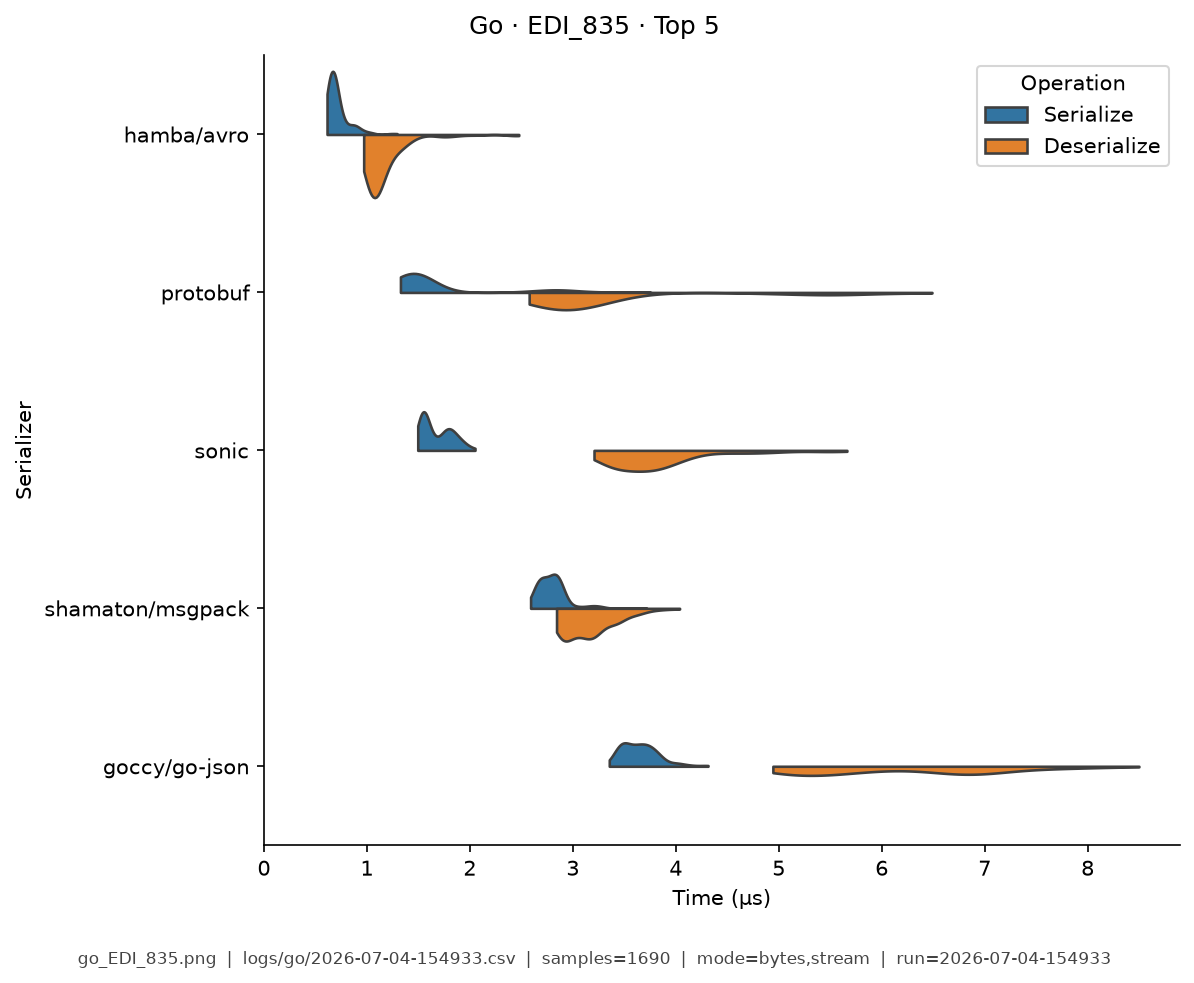
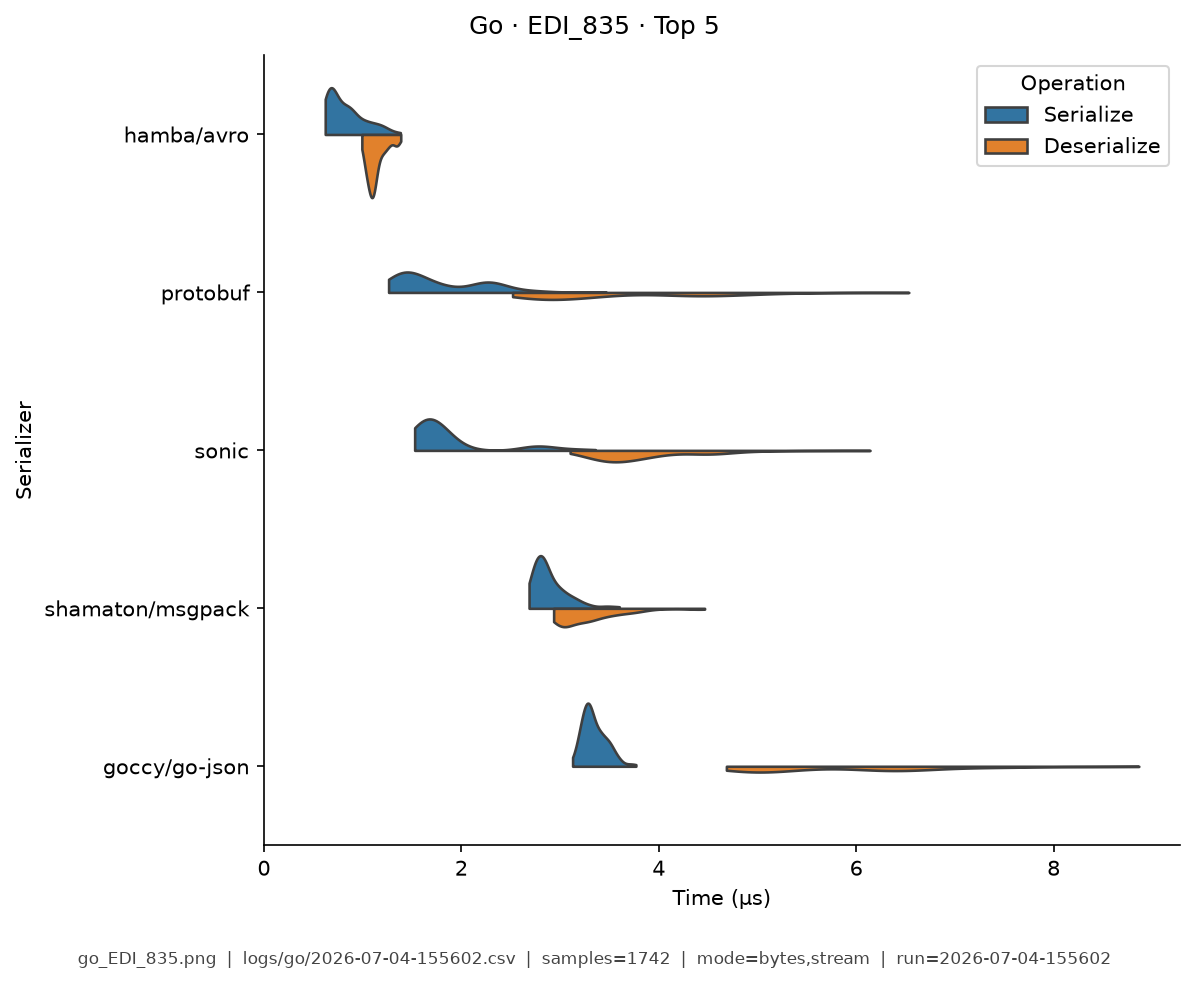
Regenerate Go full benchmarks and analytics after stdlib version fix.
Rebuild harness so SerializerVersion is go1.x.y (not gogo1.x.y) and refresh
docs/go/results.md plus Go violin plots from stem 2026-07-04-155602.

diff --git a/docs/go/results.md b/docs/go/results.md
@@ -1,6 +1,6 @@
 # Go — Benchmark Results
 
-**Generated:** 2026-07-04T15:50:14.954187
+**Generated:** 2026-07-04T15:56:07.042503
 
 Published **local snapshot** (not regenerated by GitHub Actions). Numbers may differ if you re-run benchmarks on another machine.
 
@@ -16,72 +16,72 @@ Default multi-serializer view shows **high-importance** metrics only ([METRICS.m
 
 | serializer | Median total (µs) | Median ser (µs) | Median deser (µs) | Ops/s (from mean) | Median size (B) | n | Version | Fidelity |
 |---|---|---|---|---|---|---|---|---|
-| hamba/avro | **1.82** | 0.764 | 1.03 | 1.28e+06 | 383 | 975 | 2.31.0 | 1.00 |
-| shamaton/msgpack | 2.31 | 1.02 | 1.28 | 8.06e+05 | 636.7 | 972 | 3.1.2 | 1.00 |
-| sonic | 2.6 | 0.97 | 1.61 | 1.13e+06 | 946.7 | 986 | 1.15.2 | 1.00 |
-| protobuf | 2.62 | 0.88 | 1.72 | 7.91e+05 | 490.2 | 869 | 1.36.11 | 1.00 |
-| vmihailenco/msgpack | 4.8 | 1.91 | 2.87 | 4.26e+05 | 642.8 | 1022 | 5.4.1 | 1.00 |
-| fxamacker/cbor | 4.81 | 1.12 | 3.68 | 5.63e+05 | 636.7 | 979 | 2.9.2 | 1.00 |
-| goccy/go-json | 5.66 | 2.27 | 3.34 | 8.75e+05 | 946.7 | 1054 | 0.10.6 | 1.00 |
-| segmentio/encoding/json | 6.6 | 2.29 | 4.28 | 4.79e+05 | 946.7 | 996 | 0.5.4 | 1.00 |
-| jsoniter | 7.57 | 2.63 | 4.9 | 7.39e+05 | 946.7 | 987 | 1.1.12 | 1.00 |
-| mongo-bson | 8.33 | 2.69 | 5.62 | 4.92e+05 | 900.7 | 1022 | 1.17.9 | 1.00 |
-| encoding/json | 13.6 | 3.2 | 10.5 | 3.95e+05 | 946.7 | 1031 | gogo1.24.13 | 1.00 |
-| encoding/gob | 15.9 | 3.21 | 12.6 | 7.01e+04 | 593.5 | 1004 | gogo1.24.13 | 1.00 |
+| hamba/avro | **1.39** | 0.59 | 0.783 | 9.91e+05 | 383 | 1020 | 2.31.0 | 1.00 |
+| shamaton/msgpack | 2.26 | 0.963 | 1.28 | 9.77e+05 | 636.7 | 1001 | 3.1.2 | 1.00 |
+| protobuf | 3.62 | 1.16 | 2.42 | 6.97e+05 | 490.2 | 845 | 1.36.11 | 1.00 |
+| sonic | 3.64 | 1.38 | 2.19 | 6.91e+05 | 946.7 | 1040 | 1.15.2 | 1.00 |
+| fxamacker/cbor | 4.27 | 0.906 | 3.33 | 8.24e+05 | 636.7 | 1015 | 2.9.2 | 1.00 |
+| vmihailenco/msgpack | 4.99 | 2.03 | 2.94 | 5.55e+05 | 642.8 | 1001 | 5.4.1 | 1.00 |
+| goccy/go-json | 6.65 | 2.67 | 3.95 | 7.81e+05 | 946.7 | 1013 | 0.10.6 | 1.00 |
+| segmentio/encoding/json | 7.52 | 2.44 | 5.07 | 4.74e+05 | 946.7 | 983 | 0.5.4 | 1.00 |
+| jsoniter | 7.58 | 2.59 | 4.97 | 7.47e+05 | 946.7 | 1013 | 1.1.12 | 1.00 |
+| mongo-bson | 7.99 | 2.63 | 5.34 | 3.01e+05 | 900.7 | 1018 | 1.17.9 | 1.00 |
+| encoding/json | 12.7 | 2.77 | 9.95 | 4.62e+05 | 946.7 | 967 | go1.24.13 | 1.00 |
+| encoding/gob | 16 | 3.26 | 12.6 | 6.8e+04 | 593.5 | 1040 | go1.24.13 | 1.00 |
 
 
 ### Go: Median Total Time (µs) by Serializer and API Mode
 
 | serializer | bytes mode | stream mode |
 |---|---|---|
-| encoding/gob | 15 | 25 |
-| encoding/json | 7.4 | 8.1 |
+| encoding/gob | 16 | 27 |
+| encoding/json | 4.9 | 5.5 |
 | fxamacker/cbor | 2.3 | 2.6 |
-| goccy/go-json | 2 | 2.8 |
-| hamba/avro | 1.8 | **0.95** |
-| jsoniter | 3.2 | 3.4 |
-| mongo-bson | 7.7 | 7.7 |
-| protobuf | 2.8 | 2.9 |
-| segmentio/encoding/json | 1.4 | 5.6 |
-| shamaton/msgpack | 3.4 | 1.8 |
-| sonic | **0.98** | 1.3 |
-| vmihailenco/msgpack | 4.8 | 5.3 |
+| goccy/go-json | 2.3 | 3.2 |
+| hamba/avro | 1.8 | **1.2** |
+| jsoniter | 1.9 | 2.2 |
+| mongo-bson | 8.5 | 4.9 |
+| protobuf | 1.4 | 3 |
+| segmentio/encoding/json | 1.4 | 3.8 |
+| shamaton/msgpack | 1.7 | 1.8 |
+| sonic | **1** | 1.6 |
+| vmihailenco/msgpack | 3 | 3.5 |
 
 
 ### Go: Mean Total Time (µs) by Serializer and API Mode
 
 | serializer | bytes mode | stream mode |
 |---|---|---|
-| encoding/gob | 15 | 25 |
-| encoding/json | 7.5 | 8.6 |
-| fxamacker/cbor | 2.3 | 2.6 |
-| goccy/go-json | 1.9 | 2.9 |
-| hamba/avro | 1.9 | **0.94** |
-| jsoniter | 3.2 | 3 |
-| mongo-bson | 7.7 | 7.8 |
-| protobuf | 2.8 | 3 |
-| segmentio/encoding/json | 1.4 | 5.4 |
-| shamaton/msgpack | 3.5 | 1.8 |
-| sonic | **1** | 1.3 |
-| vmihailenco/msgpack | 4.8 | 5.3 |
+| encoding/gob | 16 | 24 |
+| encoding/json | 4.9 | 5.9 |
+| fxamacker/cbor | 2.4 | 2.5 |
+| goccy/go-json | 2.3 | 3.2 |
+| hamba/avro | 1.9 | **1.5** |
+| jsoniter | 1.9 | 2.2 |
+| mongo-bson | 8.6 | 5.7 |
+| protobuf | 1.4 | 2.9 |
+| segmentio/encoding/json | 1.4 | 3.9 |
+| shamaton/msgpack | 1.7 | 1.8 |
+| sonic | **1** | 2.1 |
+| vmihailenco/msgpack | 3 | 3.5 |
 
 
 ### Go: Ops/Sec (from mean) by Serializer and Data Type
 
 | serializer | EDI_835 (K) | Integer (M) | Person (K) | SimpleObject (M) | StringArray (K) | Telemetry (M) |
 |---|---|---|---|---|---|---|
-| encoding/gob | 52K | 0.072M | 66K | 0.11M | 82K | 0.063M |
-| encoding/json | 32K | 1.8M | 130K | 0.39M | 75K | 0.03M |
-| fxamacker/cbor | 84K | 1.3M | 430K | 1.5M | 170K | 0.19M |
-| goccy/go-json | 110K | **5M** | 540K | 0.99M | 160K | 0.066M |
-| hamba/avro | **580K** | 4.8M | 530K | **3.4M** | 390K | 0.36M |
-| jsoniter | 67K | 3.7M | 310K | 0.74M | 250K | 0.048M |
-| mongo-bson | 70K | 1.7M | 130K | 1.1M | 70K | 0.059M |
-| protobuf | 220K | - | 350K | 2.6M | 230K | **1.2M** |
-| segmentio/encoding/json | 110K | 2.1M | 700K | 1.2M | 230K | 0.074M |
-| shamaton/msgpack | 180K | 1.4M | 290K | 2M | **400K** | 0.69M |
-| sonic | 200K | 3.8M | **990K** | 2.6M | 350K | 0.19M |
-| vmihailenco/msgpack | 100K | 0.87M | 210K | 1.1M | 240K | 0.16M |
+| encoding/gob | 46K | 0.11M | 64K | 0.072M | 51K | 0.046M |
+| encoding/json | 39K | 1.9M | 200K | 0.78M | 73K | 0.034M |
+| fxamacker/cbor | 130K | 3.7M | 410K | 0.96M | 160K | 0.19M |
+| goccy/go-json | 120K | **4.5M** | 440K | 0.85M | 190K | 0.038M |
+| hamba/avro | **560K** | 1.2M | 540K | **2.8M** | **510K** | 0.66M |
+| jsoniter | 74K | 3.6M | 530K | 1.2M | 220K | 0.044M |
+| mongo-bson | 66K | 0.56M | 120K | 1M | 100K | 0.099M |
+| protobuf | 170K | - | 690K | 2.2M | 110K | **1.2M** |
+| segmentio/encoding/json | 110K | 1.9M | 700K | 1.5M | 220K | 0.067M |
+| shamaton/msgpack | 170K | 3.7M | 580K | 0.98M | 410K | 0.66M |
+| sonic | 170K | 1.2M | **960K** | 2.6M | 330K | 0.12M |
+| vmihailenco/msgpack | 110K | 1.1M | 330K | 1.4M | 230K | 0.076M |
 
 ## Violin plots
 
@@ -129,21 +129,21 @@ That refreshes this language's results tables and violin plots under `docs/analy
 
     Key fields from the run sidecar (`*.configs.json`, or legacy `*.environment.json`). Full metric definitions: [Metrics catalog](../analysis/METRICS.md). Optional blocks (`dataset`, `serializers`) appear only when captured.
     
-    - **Source CSV:** `/home/leo/PycharmProjects/GLD/seriailizer-benchmark/logs/go/2026-07-04-154933.csv`
-    - run=2026-07-04-154933
+    - **Source CSV:** `/home/leo/PycharmProjects/GLD/seriailizer-benchmark/logs/go/2026-07-04-155602.csv`
+    - run=2026-07-04-155602
     - language=go
     - os=Linux 6.8.0-124-generic
     - cpu=12th Gen Intel(R) Core(TM) i7-12800H (20 threads)
     - ram=31.0 GiB
     - runtimes: python=3.14.0, node=24.15.0, rustc=rustc 1.96.0 (ac68faa20 2026-05-25)
-    - git=7cf884f dirty
+    - git=72f35d4
     - seed=42
     - warmup_reps=1
     - serializers=12
     - metrics_profile=multi_way
     - **Serializers (from CSV):**
-      - `encoding/gob` @ gogo1.24.13
-      - `encoding/json` @ gogo1.24.13
+      - `encoding/gob` @ go1.24.13
+      - `encoding/json` @ go1.24.13
       - `fxamacker/cbor` @ 2.9.2
       - `goccy/go-json` @ 0.10.6
       - `hamba/avro` @ 2.31.0
